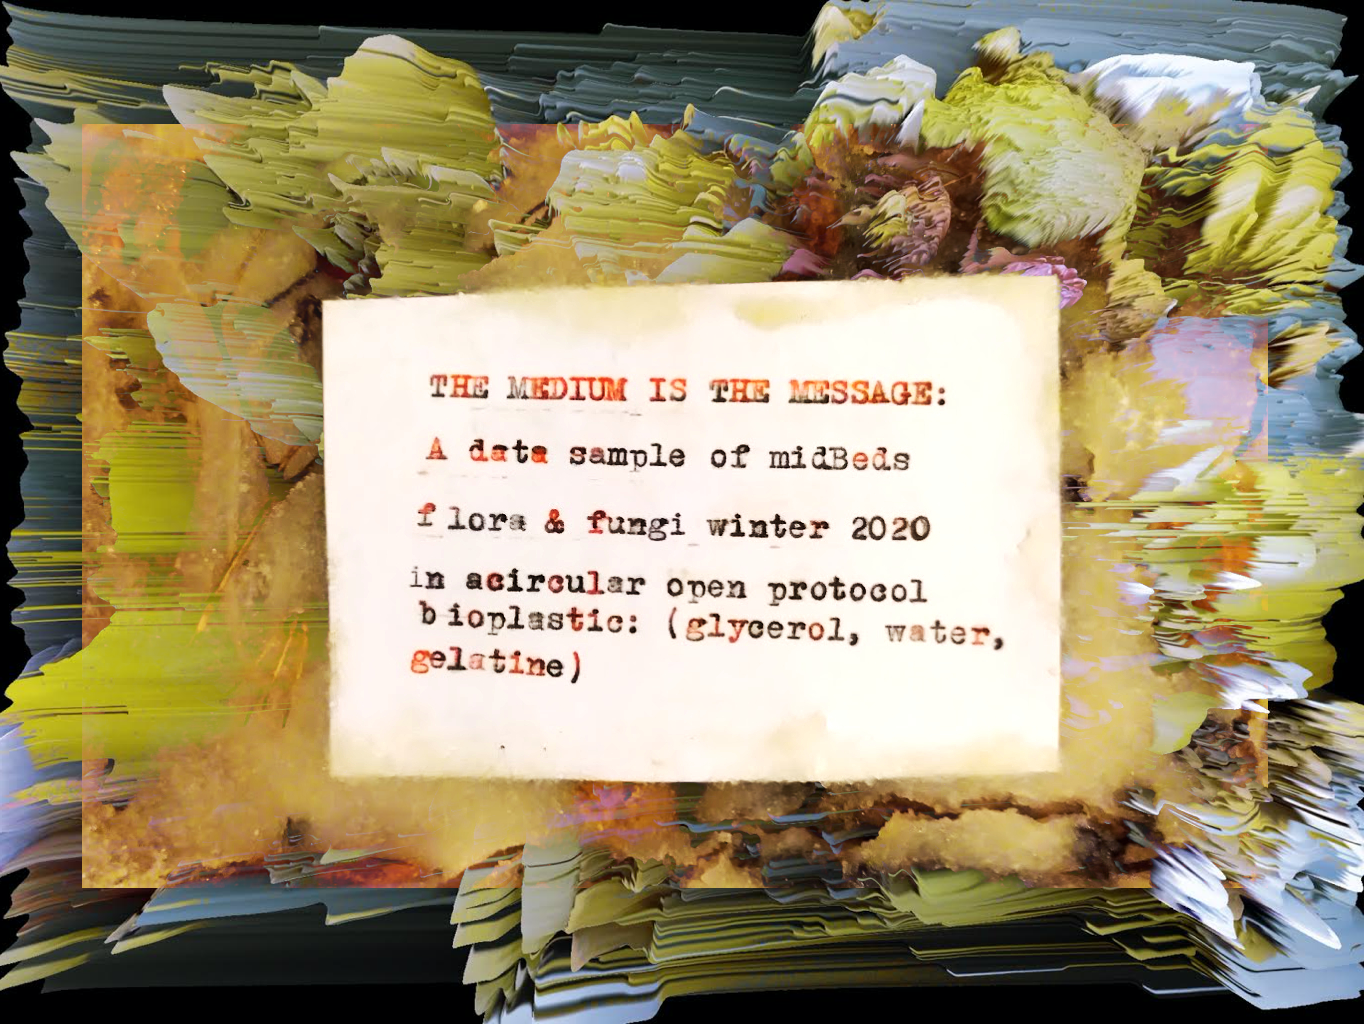
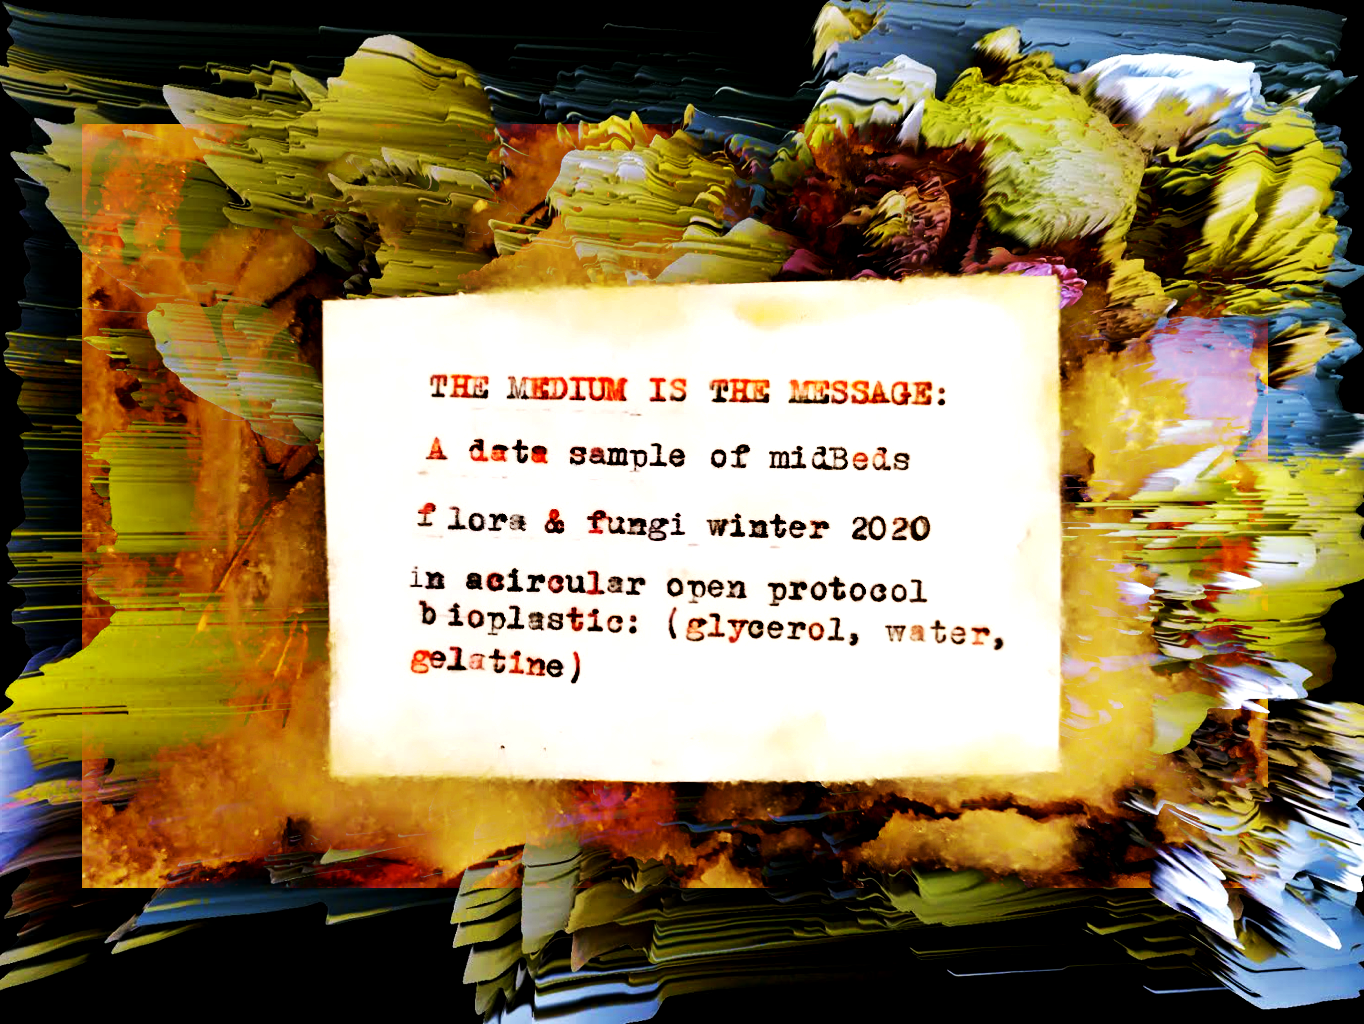
adding biopostcard post

diff --git a/_posts/2021-01-03-Bio-data-postcard.md b/_posts/2021-01-03-Bio-data-postcard.md
@@ -1,0 +1,13 @@
+# Bio Data Postcard
+
+Continuing our data postcard series, I was inspired by a workshop from [Circular Home Lab](http://circularhomelab.com/) to create this weeks postcard out of a translucent biodegradable bioplastic. The data contained within is a sample of wild flora and fungi from a walk in winter 2020. The bio-postcard will be fine to place in the composting bin afterward.
+
+![biopostcard](/images/biopostcard.jpg)
+
+Image treated with a pixel sort. The recipe is open source, originally by Margaret Dunne and adapted by Paula Nerlich:
+
+- Glycerol: 1.8g
+- Water, pre-boiled: 60ml
+- Gelatine: 12g
+
+

diff --git a/_posts/2020-12-31-Surplus-bin-sort.md b/_posts/2020-12-31-Surplus-bin-sort.md
@@ -2,7 +2,7 @@
 
 A manual sort through my waste (surplus) bin over xmas 2020 revealed that we are still a long way away from circular packaging. That was the theme of this weeks mixed-media postcard.
 
-![surplus postcard glitch](non-circular-packaging.png)
+![surplus postcard glitch](/images/non-circular-packaging.png)
 
 There were 5 main groups that identified in my non-recyclables:
 
